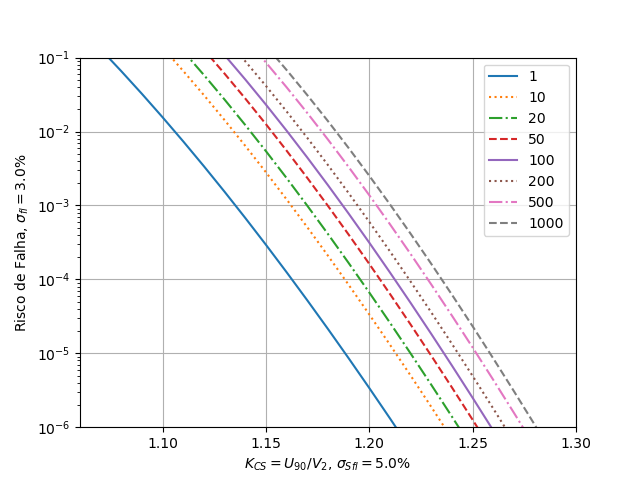
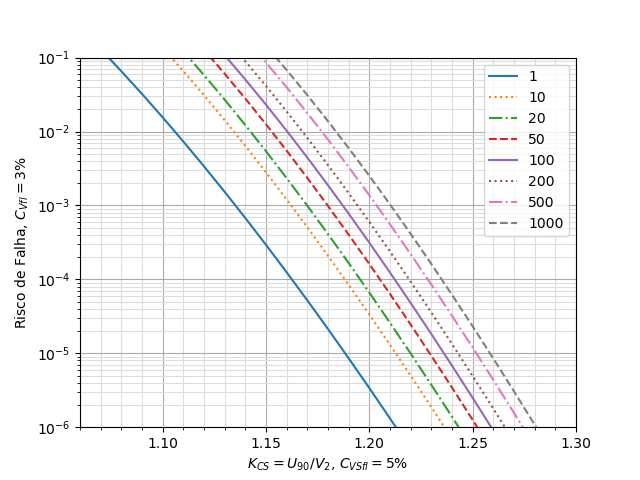
Atualizacao de algumas formulas, WIP

diff --git a/Risco_Kcs2.py b/Risco_Kcs2.py
@@ -38,7 +38,7 @@ def RISCO (Kcs, Ngaps, sig, sig_S):
     ris = sob*(1-(1-sup)**Ngaps)
     return(sum(ris))
 
-K = np.arange(1,1.70,0.01)            # coeficiente estatístico: Kcs = U90/V2
+K = np.arange(1,1.80,0.01)            # coeficiente estatístico: Kcs = U90/V2
 DP   = [0.03, 0.06]                   # desvio-padrão das sobretensões   (pu do valor médio)
 DP_S = [0.05, 0.10, 0.15]             # desvio-padrão da suportabilidade (pu do valor médio)
 N  = [1,10,20,50,100,200,500,1000]    # número de gaps em paralelo
@@ -56,10 +56,12 @@ for j in range(len(N)):
     plt.plot(K,R[:,j,0,0],ls[j])
 plt.yscale('log')
 plt.xticks(np.arange(1.05,1.70,0.05))
+plt.xticks(np.arange(1.05,1.70,0.01), minor=True)
 plt.axis([1.06,1.30,1e-6,1e-1])
-plt.grid()
-plt.xlabel(r'$K_{CS}=U_{90}/V_2$, $\sigma_{Sfl} = $'+str(100*DP_S[0])+'%')
-plt.ylabel(r'Risco de Falha, $\sigma_{fl} = $'+str(100*DP[0])+'%')
+plt.grid(which='major', color='#AAAAAA')
+plt.grid(which='minor', color='#DDDDDD')
+plt.xlabel(r'$K_{CS}=U_{90}/V_2$, $C_{VSfl} = $'+str(int(100*DP_S[0]))+'%')
+plt.ylabel(r'Risco de Falha, $C_{Vfl} = $'+str(int(100*DP[0]))+'%')
 plt.legend(N)
 plt.savefig('plotNBR00')
 
@@ -68,10 +70,11 @@ for j in range(len(N)):
     plt.plot(K,R[:,j,0,1],ls[j])
 plt.yscale('log')
 plt.xticks(np.arange(1.05,1.70,0.05))
-plt.axis([1.12,1.48,1e-6,1e-1])
-plt.grid()
-plt.xlabel(r'$K_{CS}=U_{90}/V_2$, $\sigma_{Sfl} = $'+str(100*DP_S[1])+'%')
-plt.ylabel(r'Risco de Falha, $\sigma_{fl} = $'+str(100*DP[0])+'%')
+plt.axis([1.12,1.45,1e-6,1e-1])
+plt.grid(which='major', color='#AAAAAA')
+plt.grid(which='minor', color='#DDDDDD')
+plt.xlabel(r'$K_{CS}=U_{90}/V_2$, $C_{VSfl} = $'+str(int(100*DP_S[1]))+'%')
+plt.ylabel(r'Risco de Falha, $C_{Vfl} = $'+str(int(100*DP[0]))+'%')
 plt.legend(N)
 plt.savefig('plotNBR01')
 
@@ -81,9 +84,10 @@ for j in range(len(N)):
 plt.yscale('log')
 plt.xticks(np.arange(1.05,1.70,0.05))
 plt.axis([1.14,1.58,1e-6,1e-1])
-plt.grid()
-plt.xlabel(r'$K_{CS}=U_{90}/V_2$, $\sigma_{Sfl} = $'+str(100*DP_S[2])+'%')
-plt.ylabel(r'Risco de Falha, $\sigma_{fl} = $'+str(100*DP[0])+'%')
+plt.grid(which='major', color='#AAAAAA')
+plt.grid(which='minor', color='#DDDDDD')
+plt.xlabel(r'$K_{CS}=U_{90}/V_2$, $C_{VSfl} = $'+str(int(100*DP_S[2]))+'%')
+plt.ylabel(r'Risco de Falha, $C_{Vfl} = $'+str(int(100*DP[0]))+'%')
 plt.legend(N)
 plt.savefig('plotNBR02')
 
@@ -92,10 +96,11 @@ for j in range(len(N)):
     plt.plot(K,R[:,j,1,0],ls[j])
 plt.yscale('log')
 plt.xticks(np.arange(1.05,1.70,0.05))
-plt.axis([1.10,1.52,1e-6,1e-1])
-plt.grid()
-plt.xlabel(r'$K_{CS}=U_{90}/V_2$, $\sigma_{Sfl} = $'+str(100*DP_S[0])+'%')
-plt.ylabel(r'Risco de Falha, $\sigma_{fl} = $'+str(100*DP[1])+'%')
+plt.axis([1.10,1.58,1e-6,1e-1])
+plt.grid(which='major', color='#AAAAAA')
+plt.grid(which='minor', color='#DDDDDD')
+plt.xlabel(r'$K_{CS}=U_{90}/V_2$, $C_{VSfl} = $'+str(int(100*DP_S[0]))+'%')
+plt.ylabel(r'Risco de Falha, $C_{Vfl} = $'+str(int(100*DP[1]))+'%')
 plt.legend(N)
 plt.savefig('plotNBR10')
 
@@ -104,10 +109,11 @@ for j in range(len(N)):
     plt.plot(K,R[:,j,1,1],ls[j])
 plt.yscale('log')
 plt.xticks(np.arange(1.05,1.70,0.05))
-plt.axis([1.12,1.58,1e-6,1e-1])
-plt.grid()
-plt.xlabel(r'$K_{CS}=U_{90}/V_2$, $\sigma_{Sfl} = $'+str(100*DP_S[1])+'%')
-plt.ylabel(r'Risco de Falha, $\sigma_{fl} = $'+str(100*DP[1])+'%')
+plt.axis([1.12,1.65,1e-6,1e-1])
+plt.grid(which='major', color='#AAAAAA')
+plt.grid(which='minor', color='#DDDDDD')
+plt.xlabel(r'$K_{CS}=U_{90}/V_2$, $C_{VSfl} = $'+str(int(100*DP_S[1]))+'%')
+plt.ylabel(r'Risco de Falha, $C_{Vfl} = $'+str(int(100*DP[1]))+'%')
 plt.legend(N)
 plt.savefig('plotNBR11')
 
@@ -115,10 +121,11 @@ plt.figure()
 for j in range(len(N)):
     plt.plot(K,R[:,j,1,2],ls[j])
 plt.yscale('log')
-plt.xticks(np.arange(1.05,1.75,0.05))
-plt.axis([1.16,1.72,1e-6,1e-1])
-plt.grid()
-plt.xlabel(r'$K_{CS}=U_{90}/V_2$, $\sigma_{Sfl} = $'+str(100*DP_S[2])+'%')
-plt.ylabel(r'Risco de Falha, $\sigma_{fl} = $'+str(100*DP[1])+'%')
+plt.xticks(np.arange(1.05,1.8,0.05))
+plt.axis([1.16,1.78,1e-6,1e-1])
+plt.grid(which='major', color='#AAAAAA')
+plt.grid(which='minor', color='#DDDDDD')
+plt.xlabel(r'$K_{CS}=U_{90}/V_2$, $C_{VSfl} = $'+str(int(100*DP_S[2]))+'%')
+plt.ylabel(r'Risco de Falha, $C_{Vfl} = $'+str(int(100*DP[1]))+'%')
 plt.legend(N)
 plt.savefig('plotNBR12')

diff --git a/testeComparacaodistanciaSeguranca.m b/testeComparacaodistanciaSeguranca.m
@@ -1,0 +1,53 @@
+% testeComparacaodistanciaSeguranca
+% Comparacao de distancias de seguranca para diversos obstaculos
+Vnom = [69 138 230 345 440 500 765];
+obstac = {
+'pedestre',
+'maqAgricola',
+'rodovia',
+'ferroviaNaoEletrificada',
+'ferroviaEletrificada',
+'suporteFerrovia',
+'aguasNavegaveis',
+'aguasNaoNavegaveis',
+'linhaTransmissao',
+'linhaTelecom',
+'vegetacaoPerm',
+'cultAgricPerm',
+'instalacaoTransp'};
+
+Dvtipn = zeros(length(Vnom),length(obstac));
+Dvtips = zeros(length(Vnom),length(obstac));
+Dvlimn = zeros(length(Vnom),length(obstac));
+Dvlims = zeros(length(Vnom),length(obstac));
+
+hmax = 0;
+Pstip = 0.90;
+Pslim = 0.60;
+Kcstip = 1.51;
+Kcslim = 1.40;
+alt = 100;
+% Densidade relativa do ar
+dra = 0.9;
+% Umidade absoluta g/m3
+h = 11;
+kafl = fatorAtmFrenteLenta(dra, h, d);
+for i = 1:length(Vnom),
+  for j = 1:length(obstac),
+    [kg, alt, Pbv] = distVert(obstac{j}, hmax);
+    % Parcelas eletricas por condicao
+    Petip = espacFTFrenteLenta(Us, Kcstip, Fsfl, kafl, zfl, kg);
+    Pelim = espacFTFrenteLenta(Us, Kcslim, Fsfl, kafl, zfl, kg);
+    % 7.2.2.2. Dist vertical, temperatura limite nominal
+    Dvlimn(i,j) = Pbv + Pslim + Pelim;
+    % 7.2.2.1 Dist vertical, temperatura tipica nominal
+    Dvtipn1 = Pbv + Pstip + Petip;
+    Dvtipn2 = Dvlimn(i,j) + 0.9;
+    Dvtipn(i,j) = max(Dvtipn1, Dvtipn2);
+    % 7.2.3.1. Dist vertical, temperatura tipica sobrecorrente
+    Dvtips(i,j) = Pbv + Pslim + Petip;
+    % 7.2.3.2 Dist vertical, temperatura limite sobrecorrente
+    Dvlims(i,j) = Pbv + Pelim;
+  end
+end
+

diff --git a/distVert.m b/distVert.m
@@ -7,55 +7,55 @@ function [kg, alt, pbv] = distVert(tipo, hmax)
     case {'pedestre'}
       kg = 1.47;
       alt = 3.90;
-      pbv = 4.50;
+      pbv = 4.10;
     case {'maqAgricola'}
       kg = 1.18;
       alt = 4.00;
-      pbv = 4.60;
+      pbv = 4.20;
     case {'rodovia'}
       kg = 1.18;
       alt = 5.40;
-      pbv = 6.00;
+      pbv = 5.60;
     case {'ferroviaNaoEletrificada'}
       kg = 1.18;
       alt = 6.40;
-      pbv = 7.00;
+      pbv = 6.60;
     case {'ferroviaEletrificada'}
       kg = 1.30;
       alt = 9.70;
-      pbv = 10.3;
+      pbv = 10.0;
     case {'suporteFerrovia'}
       kg = 1.18;
       alt = hmax;
-      pbv = 2.10;
+      pbv = 1.70;
     case {'aguasNavegaveis'}
       kg = 1.47;
       alt = hmax;
-      pbv = 4.20;
+      pbv = 4.00;
     case {'aguasNaoNavegaveis'}
       kg = 1.47;
       alt = 3.60;
-      pbv = 4.20;
+      pbv = 4.00;
     case {'linhaTransmissao'}
       kg = 1.45;
       alt = hmax;
-      pbv = 1.00;
+      pbv = 0.70;
     case {'linhaTelecom'}
       kg = 1.45;
       alt = hmax';
-      pbv = 1.00;
+      pbv = 0.70;
     case {'vegetacaoPerm'}
       kg = 1.18;
       alt = hmax;
-      pbv = 2.00;
+      pbv = 1.80;
     case {'cultAgricPerm'}
       kg = 1.18;
       alt = hmax;
-      pbv = 2.00;
+      pbv = 1.80;
     case {'instalacaoTransp'}
       kg = 1.18;
       alt = hmax;
-      pbv = 1.00;
+      pbv = 0.70;
     otherwise
       error("Tipo invalido");
   end

diff --git a/fatorKgFFFrenteLenta.m b/fatorKgFFFrenteLenta.m
@@ -1,0 +1,35 @@
+function kg = fatorKgFFFrenteLenta(gap, alpha)
+if (alpha == 0.5)
+  switch gap
+    case {'anelAnel'}
+      kg = 1.8;
+    case {'condutorCruzado'}
+      kg = 1.65;
+    case {'hasteHaste', 'condutorCondutor', 'condutorParalelo'}
+      kg = 1.62;
+    case {'barramento'}
+      kg = 1.50;
+    case {'assimetrico'}
+      kg = 1.45;
+    otherwise
+      error("Tipo invalido");
+  end
+elseif (alpha == 0.33)
+  switch gap
+    case {'anelAnel'}
+      kg = 1.7;
+    case {'condutorCruzado'}
+      kg = 1.53;
+    case {'hasteHaste', 'condutorCondutor', 'condutorParalelo'}
+      kg = 1.52;
+    case {'barramento'}
+      kg = 1.40;
+    case {'assimetrico'}
+      kg = 1.36;
+    otherwise
+      error("Tipo invalido");
+  end
+else
+  error("Fator alpha nao previsto");
+end
+end

diff --git a/graficoKafl.m b/graficoKafl.m
@@ -1,0 +1,26 @@
+% Comparação dos valores kafl (seção 4.8.4.1)
+clear all;
+
+d = 1:0.2:10;
+t = 0:5:40;
+dra = 0.8:0.05:1;
+figure;
+for i=1:length(t)
+  for j=1:length(dra)
+    h = umidAbs(dra(j), t(i));
+    kafl = fatorAtmFrenteLenta(dra(j), h, d);
+    plot(d,kafl,'LineWidth', 2);
+    hold on;
+  end
+end
+set(gca,'FontSize', 14);
+W = 6; H = 4;
+set(gcf,'PaperUnits','inches')
+set(gcf,'PaperOrientation','portrait');
+set(gcf,'PaperSize',[H,W]);
+set(gcf,'PaperPosition',[0,0,W,H]);
+hold off;
+xlabel('Distância no ar (m)',...
+       'FontSize', 16);
+ylabel('Fator k_{afl}',...
+       'FontSize', 16, 'interpreter', 'tex');

diff --git a/nbr5422.m b/nbr5422.m
@@ -7,6 +7,7 @@
 % Uso: configura um caso em um script a parte (vide exemplos), chamando no final esta rotina
 
 % 4.8.5 - Fator de correcao atmosferico
+% Deve-se entrar a distancia no ar antes de calcular os gaps?
 kafl = fatorAtmFrenteLenta(dra, h, d);
 % 4.10.3.7 - Fator de correcao de rugosidade
 Vr = fatCorrRug(rugTerreno) * VrB;
@@ -22,10 +23,10 @@ Pstip = 0.90;
 Pslim = 0.60;
 % 7.2.5. Parcelas eletricas
 if ~exist('Kcstip')
-  Kcstip = 1.40;
+  Kcstip = 1.51;
 end
 if ~exist('Kcslim')
-  Kcslim = 1.32;
+  Kcslim = 1.40;
 end
 
 % Projeto de isolamento

diff --git a/fatorAtmFrenteLenta.m b/fatorAtmFrenteLenta.m
@@ -1,13 +1,12 @@
 function kafl = fatorAtmFrenteLenta(dra, h, d)
 % FATORATMFRENTELENTA Fator de correcao atmosferico para impulsos de frente
-% lenta
+% lenta linhas CA
 %  dra - densidade relativa do ar
 %  h - umidade absoluta do ar em g/m3
-%  d - espacamento no ar em m
-hc = fatorUmidade(h, dra);
+%  d - espaçamento no ar em m
+hc = fatorUmidadeCA(h, dra);
 g0(d <= 3.5) = 1080 ./(500 .* d(d <= 3.5)) .* log(0.46 .* d(d <= 3.5) + 1);
 g0 = 3400 ./ (500 .* d + 4000);
-
 m2 = 1.25 .* g0 .* (g0 - 0.2);
 kafl = dra.^m2 .* hc.^m2;
 end

diff --git a/testeJulian.m b/testeJulian.m
@@ -1,12 +1,15 @@
 % Teste Julian
 % Baseado no arquivo "Seção 7 - Distâncias de Segurança_Rev10.xls" de 28/06/2022
+clear all;
 
 % distancia entre linhas 500 e 69 kV
 Us = 500 + 69;
 Fsfl = 1;
 Kcs = 1.60;
+% Fator de correção de condições atmosféricas - mas depende da distância do gap, assume-se um valor inicial
 kafl = 0.95;
-kzfl = 0.922;
+zfl = 0.06;
 alpha = 0.5;
+kg = fatorKgFFFrenteLenta('condutorCondutor', alpha);
 d = espacFFFrenteLenta(Us, alpha, Kcs, Fsfl, kafl, zfl, kg)
 

diff --git a/umidAbs.m b/umidAbs.m
@@ -1,5 +1,6 @@
-function h = umidAbs()
-  %% Umidade absoluta do ar
-  % formula (4)
-  h = (6.11 * r * exp(17.6 * t/(243 + t))) / (0.4615 * (273 + t));
+function h = umidAbs(dra, t)
+  %% Umidade absoluta do ar (seção 4.6.1)
+  % Usando dra (em pu), ao contrário da fórmula que pede em porcentagem.
+  % 
+  h = (611. * dra * exp(17.6 * t/(243 + t))) / (0.4615 * (273 + t));
 end

diff --git a/espacFFFrenteLenta.m b/espacFFFrenteLenta.m
@@ -1,7 +1,7 @@
 function d = espacFFFrenteLenta(Us, alpha, Kcs, Fsfl, kafl, zfl, kg)
 %% ESPACFTFRENTELENTA
 % 9.3.1
-kzfl = 0.922 * (1-1.3*zfl);
+kzfl = 1 - 1.3*zfl;
 d = 2.17 * exp(Kcs*sqrt(2)*Us*Fsfl/(1080 * sqrt(3) * kafl * kzfl * kg) - 1);
 if (d > 4)
   u50 = 1.4 * Kcs * sqrt(2) * Us * fsfl / (kafl * kzfl);

diff --git a/testeAmpEstat.m b/testeAmpEstat.m
@@ -13,7 +13,7 @@ ecdf(temp, 'function','survivor');
 xlabel('Temperatura');
 % Na verdade o eixo Y seria a funcao sobrevivencia S(t), mas seguindo a
 % convencao no draft de F(t)
-ylabel('F(t)');
+ylabel('P(t)');
 line([0 63.2], [0.1 0.1], 'Color','red');
 line([63.2 63.2], [0 0.1], 'Color','red');
 grid on

diff --git a/distHoriz.m b/distHoriz.m
@@ -8,7 +8,7 @@ switch obstaculo
     pbv = 4.00;
   case {'rodovia', 'ferroviaNaoEletrificada', 'ferroviaEletrificada'}
     kg = 1.28;
-    pbv = 1.20;
+    pbv = 0.80;
   case {'vegetacaoPerm'}
     kg = 1.28;
     pbv = 2.00;
